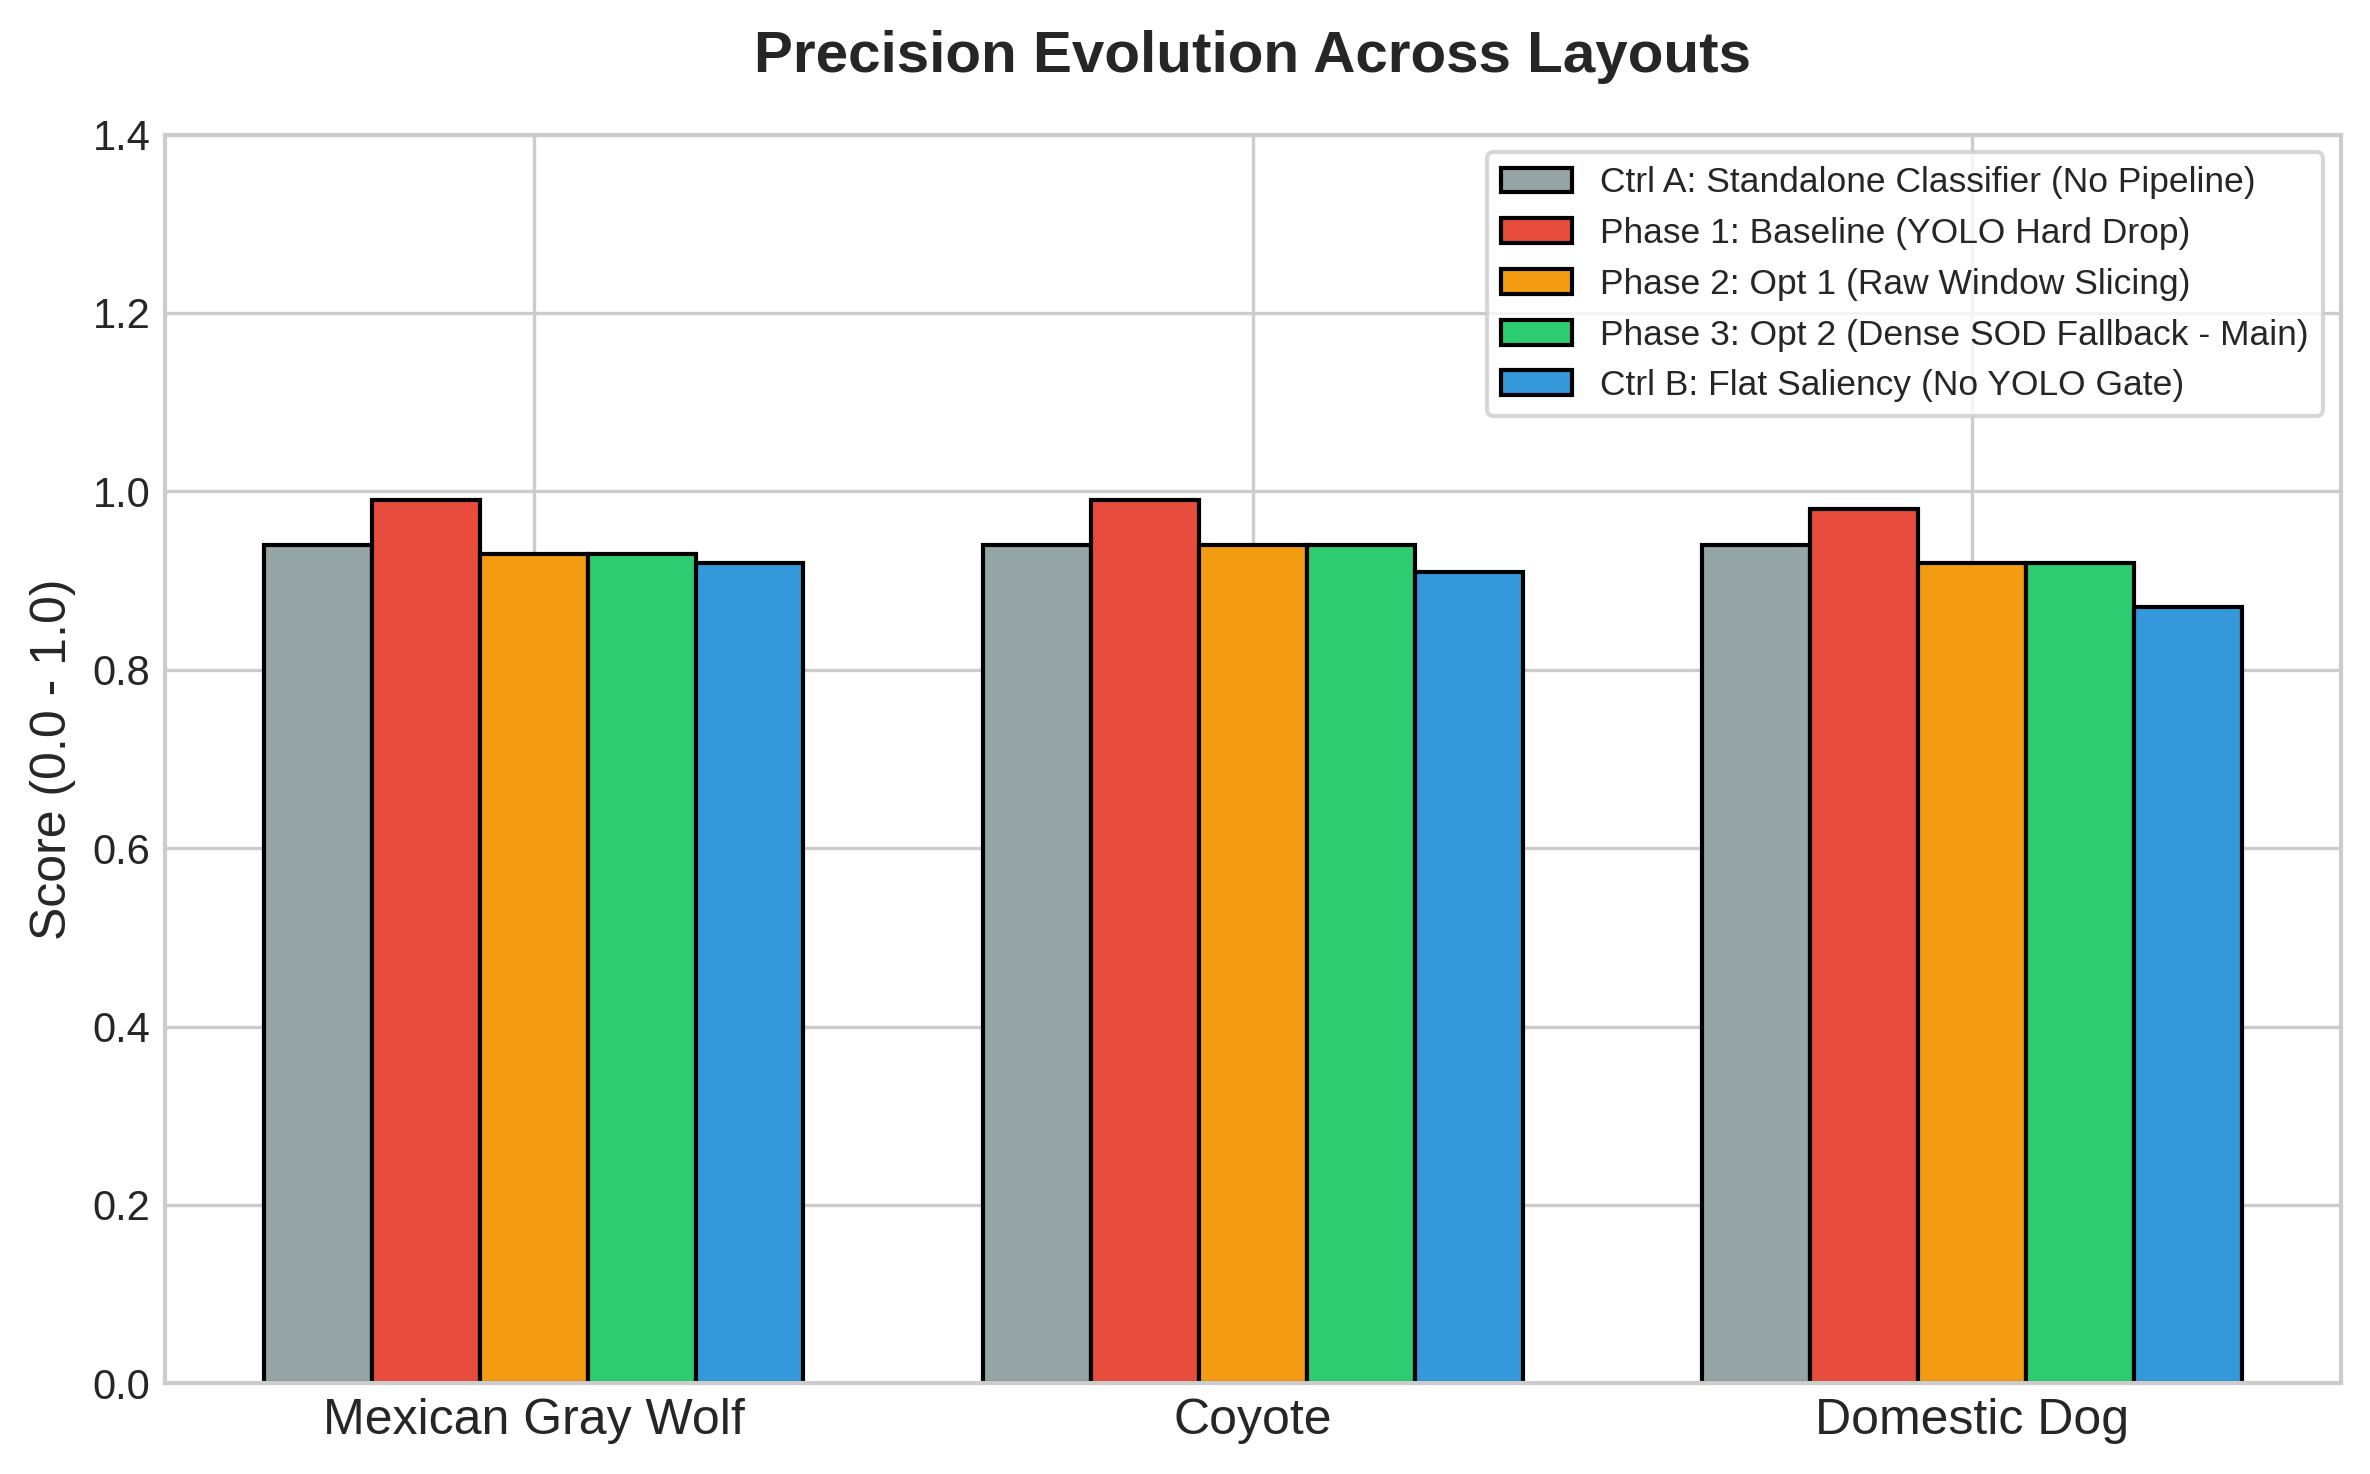
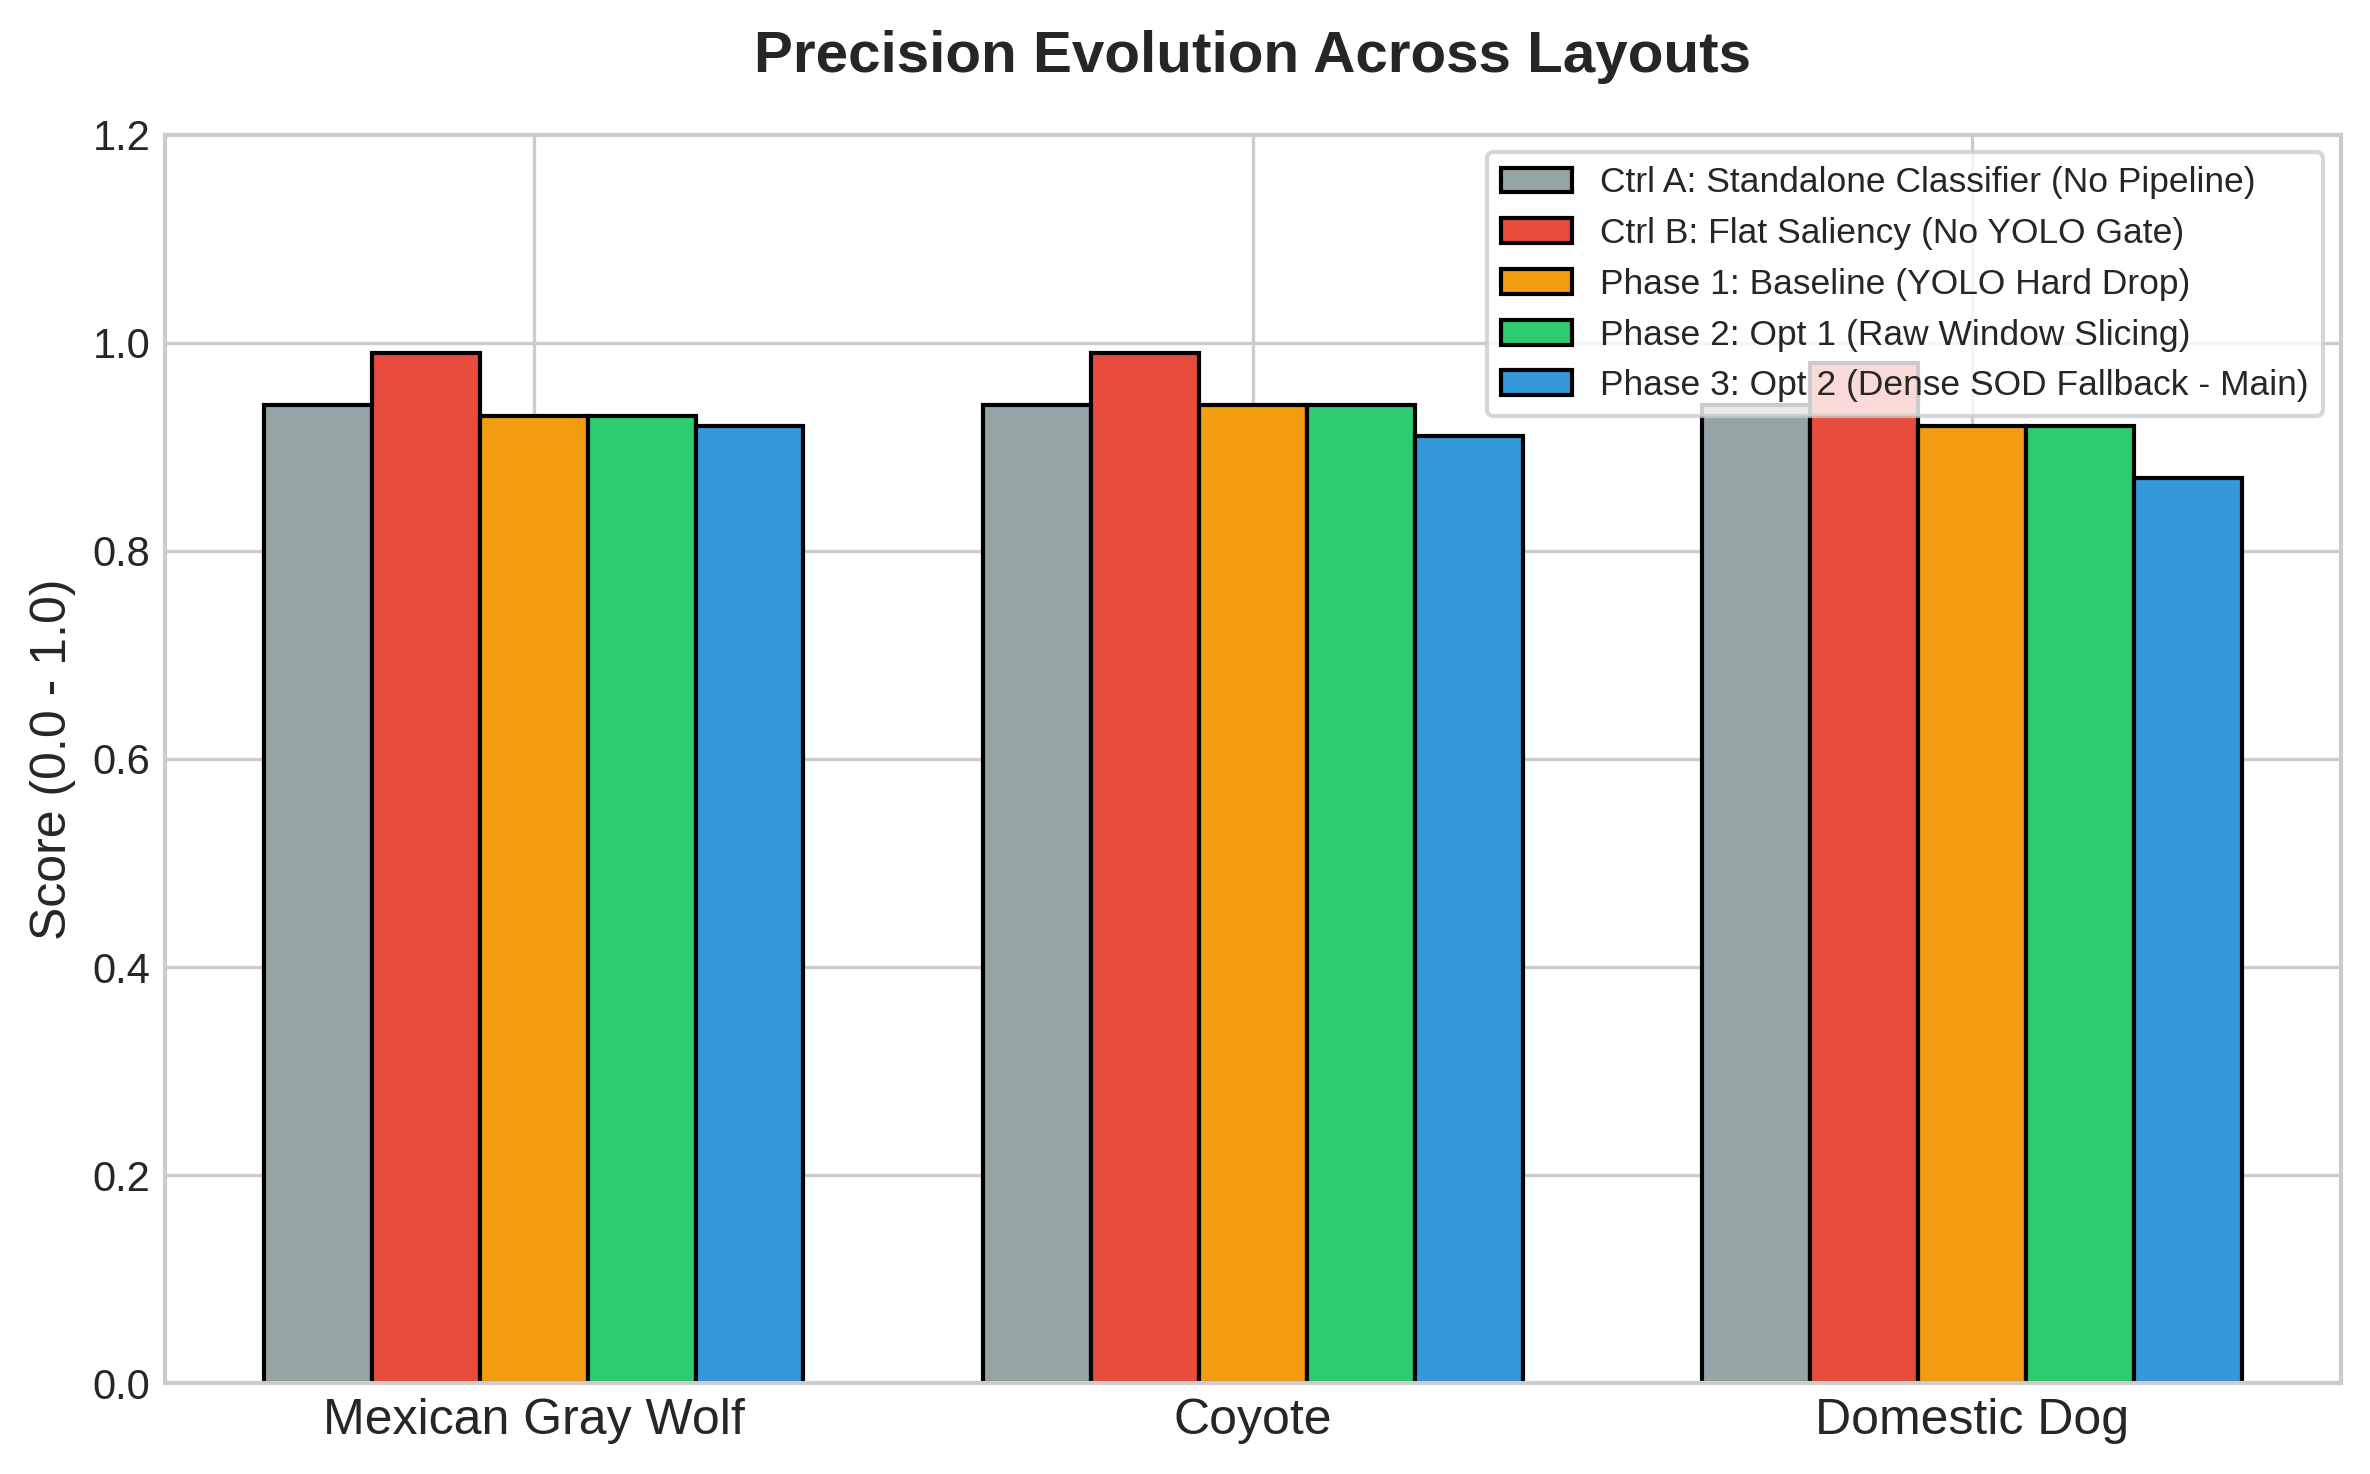
Generated the new version of the Bar Charts

diff --git a/WildlifeRecognitionModel/generate_defense_plots.py b/WildlifeRecognitionModel/generate_defense_plots.py
@@ -38,11 +38,10 @@ plt.style.use('seaborn-v0_8-whitegrid' if 'seaborn-v0_8-whitegrid' in plt.style.
 colors = ['#95a5a6', '#e74c3c', '#f39c12', '#2ecc71', '#3498db']
 labels = [
     'Ctrl A: Standalone Classifier (No Pipeline)',
-    'Ctrl B: Flat Saliency (No YOLO Gate)'
+    'Ctrl B: Flat Saliency (No YOLO Gate)',
     'Phase 1: Baseline (YOLO Hard Drop)',
     'Phase 2: Opt 1 (Raw Window Slicing)',
-    'Phase 3: Opt 2 (Dense SOD Fallback - Main)',
-    
+    'Phase 3: Opt 2 (Dense SOD Fallback - Main)'
 ]
 
 # Package data structures for clean iteration loops
